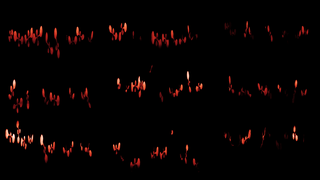
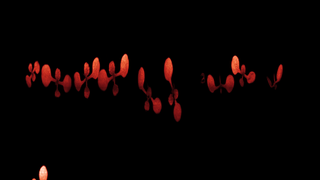
Card thumbnail: one plate's top row-scans so seedlings stay legible at 320x180

diff --git a/scripts/12_site_media.py b/scripts/12_site_media.py
@@ -196,11 +196,10 @@ def hero(comp, scale):
     gap = np.zeros((ims[0].shape[0], 8, 3), np.uint8)
     strip = np.hstack([ims[0], gap, ims[1], gap, ims[2]])
     Image.fromarray(strip).save(DOCS / "media" / "hero.webp", quality=85, method=6)
-    im = Image.fromarray(strip)
-    w, h = im.size
-    th = 180 * w // 320
-    top = max((h - th) // 2, 0)
-    im.crop((0, top, w, top + min(th, h))).resize((320, 180), Image.LANCZOS).save(DOCS / "thumb.png")
+    # Card thumbnail: the top two row-scans of the Control plate, 16:9, so seedlings stay legible.
+    ctrl = Image.fromarray(ims[0])
+    w = ctrl.size[0]
+    ctrl.crop((0, 0, w, w * 9 // 16)).resize((320, 180), Image.LANCZOS).save(DOCS / "thumb.png")
 
 
 def cubes(cm, L):
